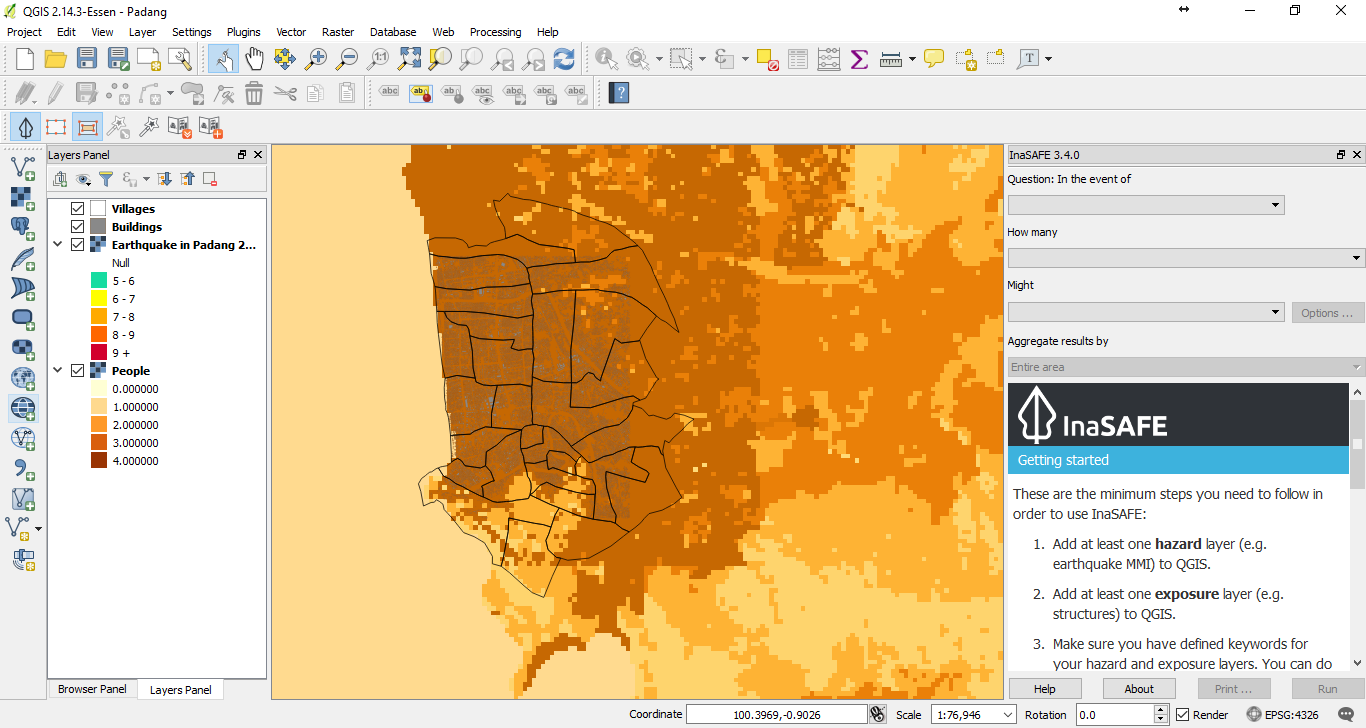
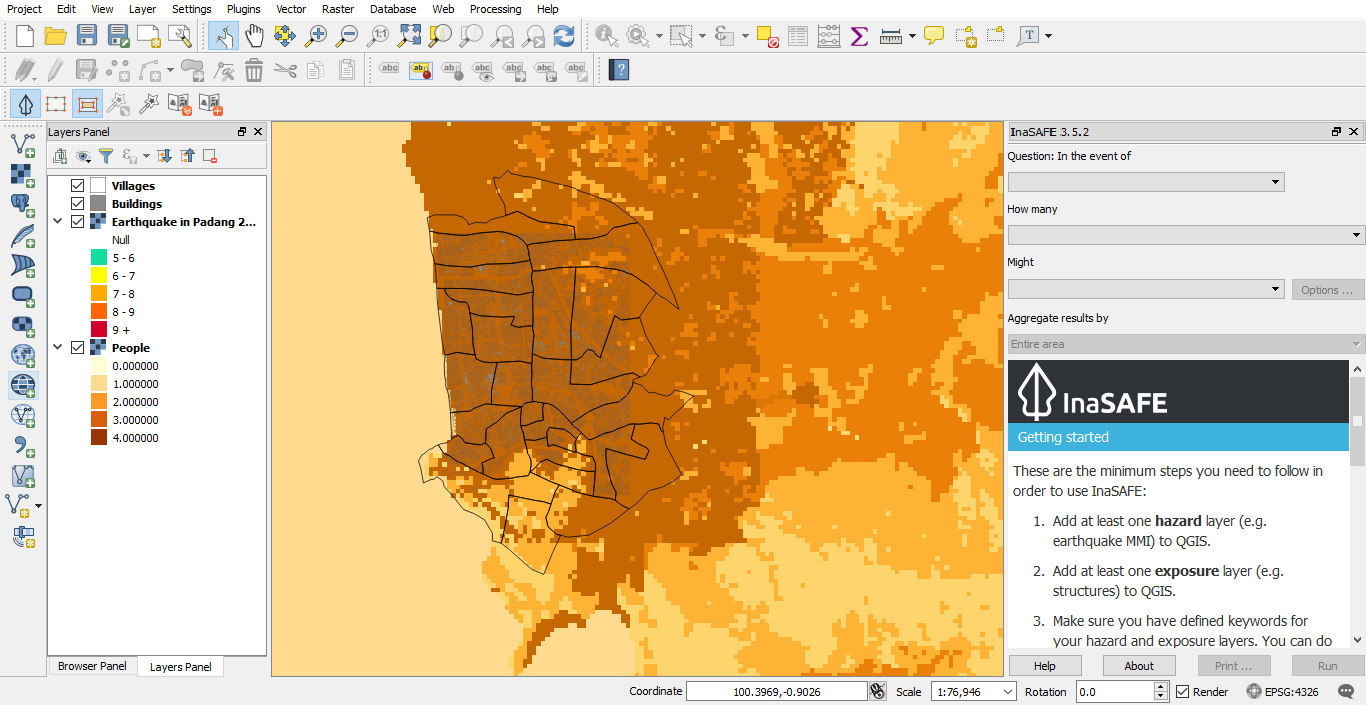
update image for socialisation

diff --git a/docs/source/training/socialisation/objective.rst b/docs/source/training/socialisation/objective.rst
@@ -86,7 +86,7 @@ OpenStreetMap Team (|hot|).
 Manual based on:
 ................
 
-* Version 3.4.x of |project_name|
+* Version 3.5.x of |project_name|
 * Version 2.14.x of |QGIS|
 
 Produced:
@@ -96,6 +96,7 @@ August 2013 (original)
 September 2014 (update)
 September 2015 (major revision)
 June 2016 (update)
+August 2016 (update)
 
 More information:
 .................
